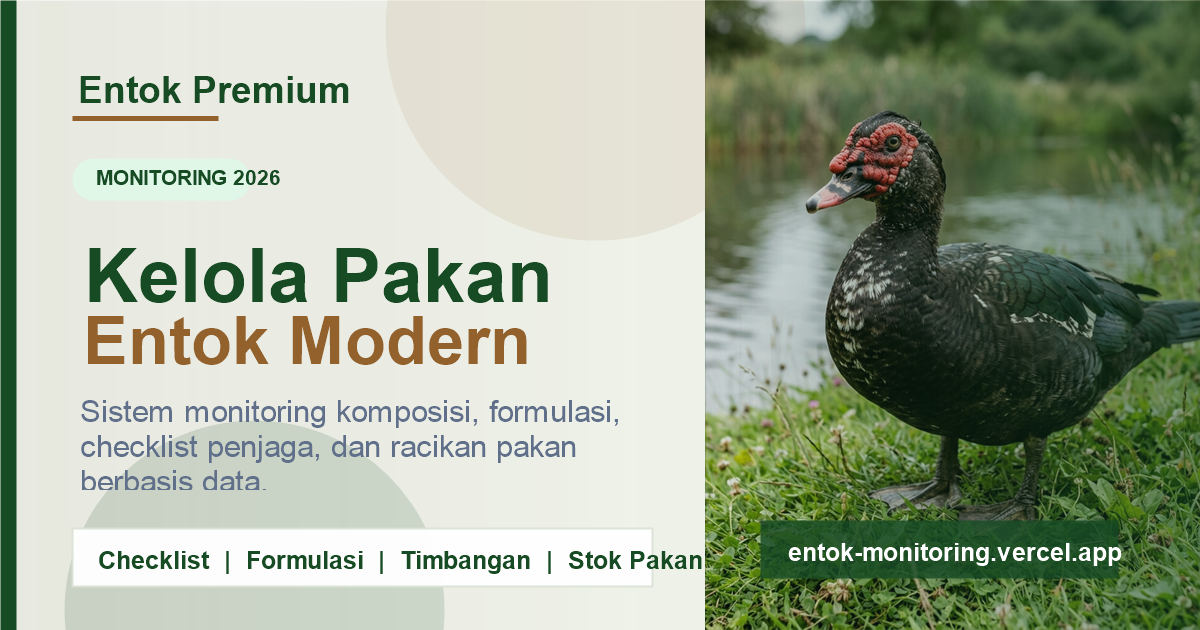
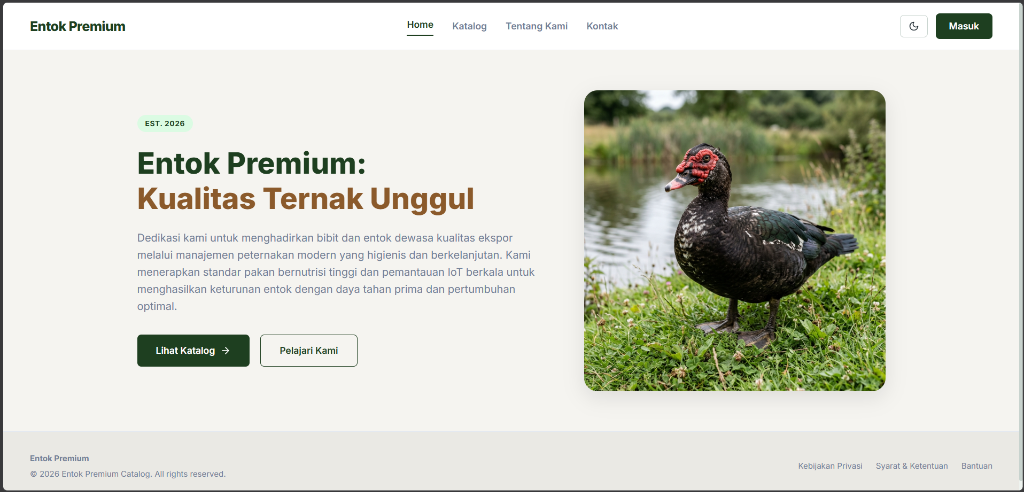
Update portfolio project content and visuals

diff --git a/css/style.css b/css/style.css
@@ -788,31 +788,37 @@ main { flex: 1; }
 
 .project-proof {
     display: flex;
-    flex: 1;
     flex-direction: column;
-    overflow: hidden;
-    min-height: 330px;
     background: var(--bg-surface);
     border: 1px solid var(--border);
     border-radius: var(--radius-md);
     box-shadow: var(--shadow-sm);
+    /* flex: 1 dan min-height dipindah ke .project-proof-screenshot */
+}
+/* Card 02 & 03 tetap stretch mengisi tinggi kolom */
+.project-proof-screenshot {
+    flex: 1;
+    min-height: 330px;
+    overflow: hidden;
 }
 .proof-image-frame {
     position: relative;
-    overflow: hidden;
-    aspect-ratio: 16 / 10;
     background: #e8eee4;
+    /* Tidak pakai aspect-ratio / overflow: hidden agar foto tampil penuh */
 }
 .proof-image-frame img {
     width: 100%;
-    height: 100%;
-    object-fit: cover;
+    height: auto;
+    display: block;
 }
 .project-screenshot-frame {
+    /* Card 02 & 03: tetap pakai frame fixed dengan aspect-ratio */
     aspect-ratio: 16 / 9;
     background: #f6f7fb;
+    overflow: hidden;
 }
 .project-screenshot-frame img {
+    height: 100%;
     object-fit: contain;
 }
 .project-proof-screenshot {

diff --git a/project.html b/project.html
@@ -51,8 +51,8 @@
                     <article class="case-study" id="entok-monitoring">
                         <div class="case-study-visual-column">
                             <span class="case-study-number" aria-hidden="true">01</span>
-                            <figure class="project-proof">
-                                <div class="proof-image-frame">
+                            <figure class="project-proof project-proof-screenshot">
+                                <div class="proof-image-frame project-screenshot-frame">
                                     <img src="assets/images/projects/entok-monitoring.png" width="1200" height="630" loading="lazy" alt="Artwork resmi Entok Monitoring tentang pengelolaan pakan entok berbasis data">
                                     <span class="proof-status">Dashboard aktif</span>
                                 </div>
